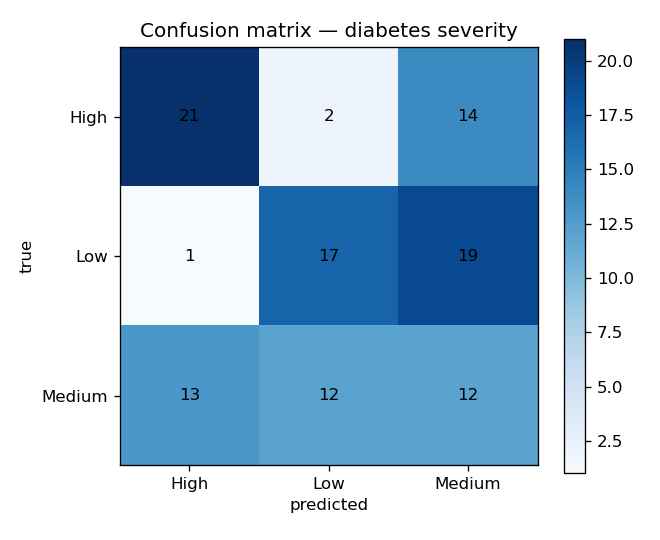
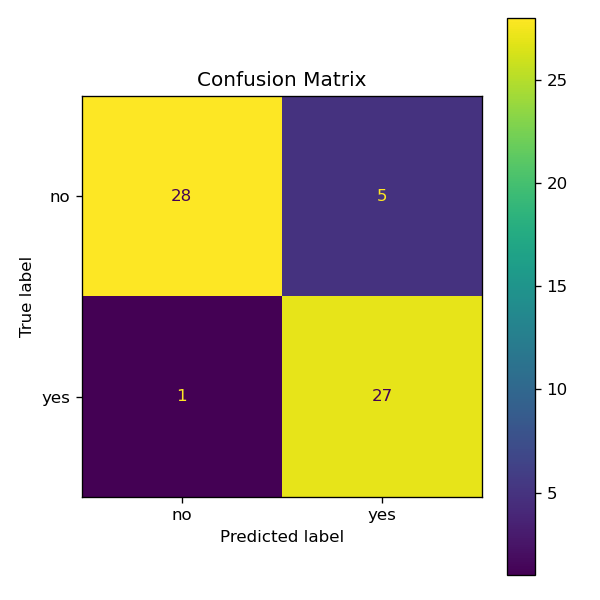
add 09-heart-disease-random-forest

diff --git a/code/random_forest.py b/code/random_forest.py
@@ -1,0 +1,47 @@
+"""Heart Disease: Random Forest Ensemble."""
+import os
+import numpy as np
+import pandas as pd
+import matplotlib
+matplotlib.use("Agg")
+import matplotlib.pyplot as plt
+from sklearn.model_selection import train_test_split
+from sklearn.impute import SimpleImputer
+from sklearn.ensemble import RandomForestClassifier
+from sklearn.metrics import accuracy_score, confusion_matrix, ConfusionMatrixDisplay
+
+BASE = os.path.dirname(os.path.dirname(os.path.abspath(__file__)))
+df = pd.read_csv(os.path.join(BASE, "csv", "heart.csv"))
+
+X = df.drop(columns=["target"])
+y = df["target"]
+
+X_imp = SimpleImputer(strategy="median").fit_transform(X)
+X_train, X_test, y_train, y_test = train_test_split(
+    X_imp, y, test_size=0.2, random_state=42, stratify=y)
+
+rf = RandomForestClassifier(n_estimators=200, oob_score=True, random_state=42, n_jobs=-1)
+rf.fit(X_train, y_train)
+acc = accuracy_score(y_test, rf.predict(X_test))
+
+with open(os.path.join(BASE, "output", "metrics.txt"), "w") as f:
+    f.write(f"Accuracy: {acc:.4f}\nOOB score: {rf.oob_score_:.4f}\n")
+print(f"accuracy: {acc:.4f}  oob: {rf.oob_score_:.4f}")
+
+# feature importance
+imp = rf.feature_importances_
+order = np.argsort(imp)
+plt.figure(figsize=(8, 6))
+plt.barh(np.array(X.columns)[order], imp[order])
+plt.title("Random Forest — Feature Importance")
+plt.tight_layout()
+plt.savefig(os.path.join(BASE, "output", "feature_importance.png"), dpi=120)
+
+# confusion matrix
+fig, ax = plt.subplots(figsize=(5, 5))
+ConfusionMatrixDisplay(confusion_matrix(y_test, rf.predict(X_test)),
+                       display_labels=["no", "yes"]).plot(ax=ax)
+ax.set_title("Confusion Matrix")
+fig.tight_layout()
+fig.savefig(os.path.join(BASE, "output", "confusion_matrix.png"), dpi=120)
+print("saved metrics.txt, feature_importance.png, confusion_matrix.png")

diff --git a/README.md b/README.md
@@ -1,17 +1,17 @@
-# Heart Disease — Decision Tree Classification
+# Heart Disease — Random Forest Ensemble
 
-Single decision tree (max_depth=4) on the UCI Cleveland heart disease dataset.
+Random forest (200 trees) with out-of-bag evaluation on the UCI Cleveland heart disease dataset.
 
 ## Pipeline
-1. Load `csv/heart.csv` (303 rows, 13 features, binary target)
-2. Median imputation for missing values (`ca`, `thal`)
-3. 80/20 stratified train/test split
-4. `DecisionTreeClassifier(max_depth=4)`
+1. Load `csv/heart.csv`, median imputation
+2. 80/20 stratified train/test split
+3. `RandomForestClassifier(n_estimators=200, oob_score=True)`
 
 ## Results
-See `output/metrics.txt`. Tree visualization in `output/tree.png`.
+See `output/metrics.txt` (accuracy + OOB score).
+Plots: `output/feature_importance.png`, `output/confusion_matrix.png`.
 
 ## Run
 ```
-python3 code/decision_tree.py
+python3 code/random_forest.py
 ```
